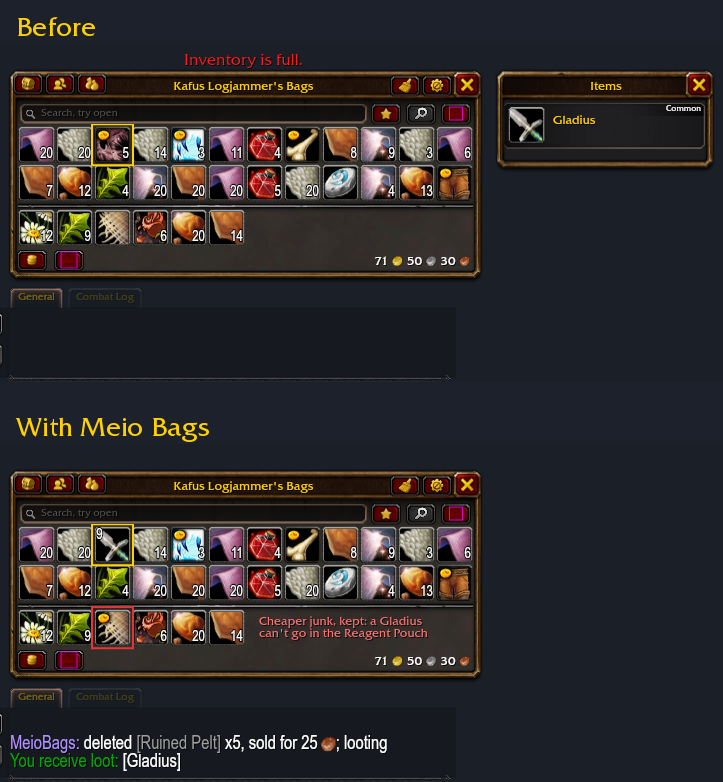
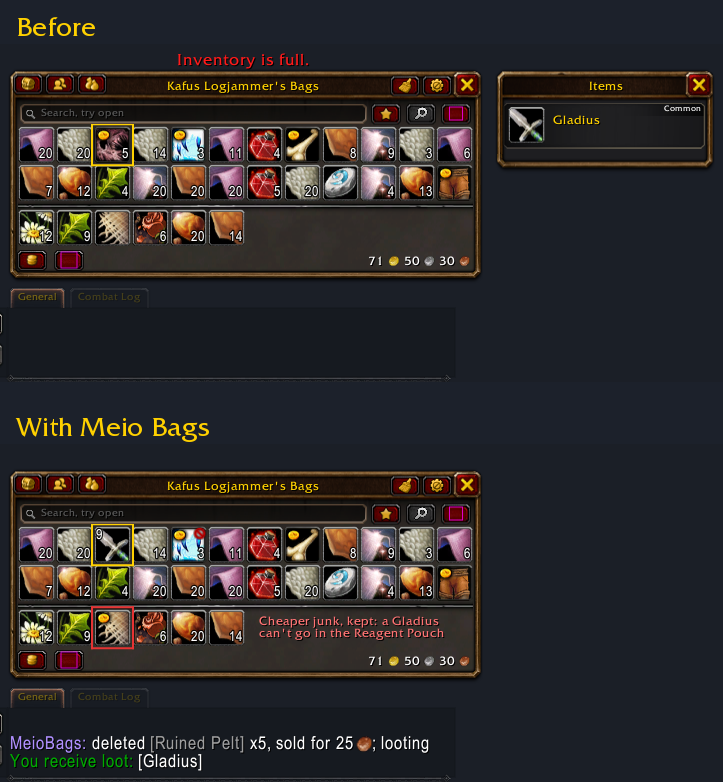
Listing pictures re-rendered; new summary and opening line

diff --git a/README.md b/README.md
@@ -1,6 +1,7 @@
 # Meio Bags
 
-One key deletes your cheapest junk when your bags are full.
+Bags full in the middle of a pull? One key deletes your cheapest junk item, and the vendor
+buys the rest when you visit.
 
 For WoW Forever.
 
